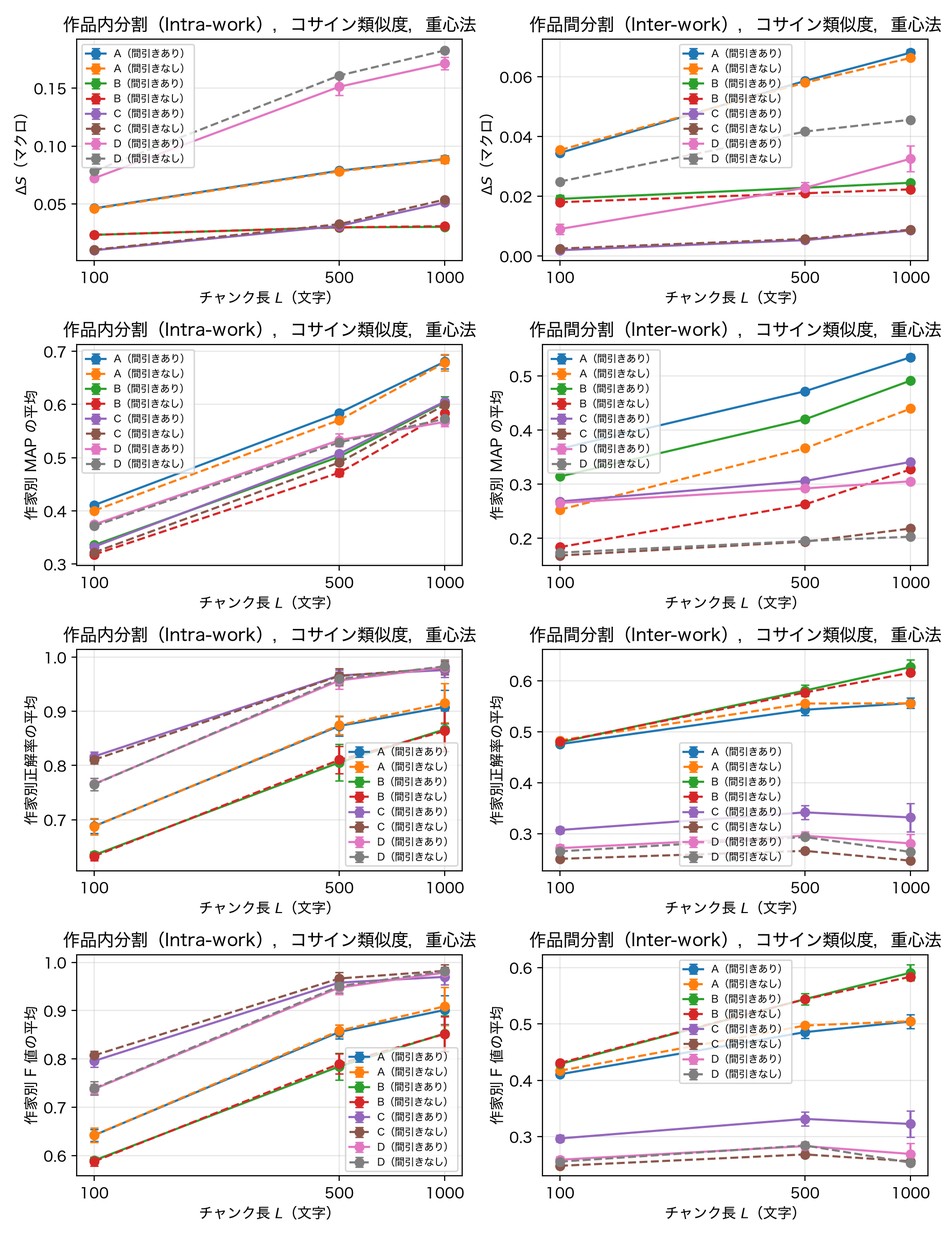
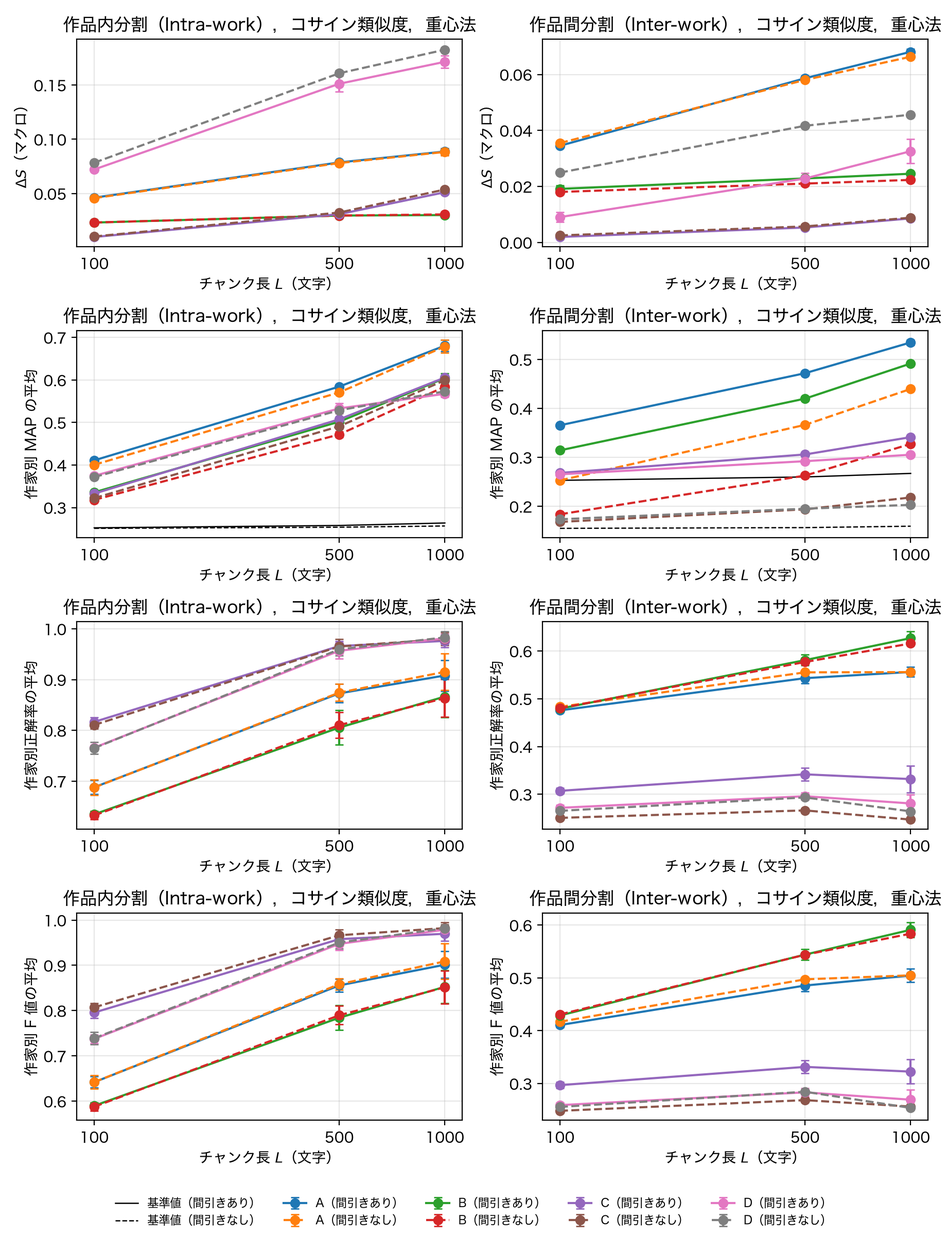
docs: 発表資料の監査で見つかった不足と不一致を修正

diff --git a/scripts/plot_results.py b/scripts/plot_results.py
@@ -429,8 +429,10 @@ def core_chunk_length(res: Results, cs: CoreSpec, h: dict[str, Any], Ls: list[in
             ax.set(xscale="log", xticks=Ls, xticklabels=[str(L) for L in Ls], xlabel=CHUNK_AXIS_LABEL, ylabel=METRIC_LABEL[col], title=f"{SPLIT_LABEL[split]}，間引き{BAL_LABEL[bal]}，{clf_label(clf)}")
             ax.minorticks_off()
             ax.grid(alpha=0.3)
-            ax.legend(fontsize=7)
-    fig.tight_layout()
+    # 凡例は線と重ならないよう図の下に 1 つだけ置く（基準値の線を含む作家別正解率の平均のパネルから採る）
+    handles, labels = axes[CORE_COLS.index("balanced_accuracy")][0].get_legend_handles_labels()
+    fig.legend(handles, labels, loc="lower center", ncol=len(labels), fontsize=8, frameon=False)
+    fig.tight_layout(rect=(0, 0.035, 1, 1))
     fig.savefig(fig_dir / "core_chunk_length.png", dpi=200)
     plt.close(fig)
     return [
@@ -629,6 +631,14 @@ def section_distributions(res: Results, h: dict[str, Any], features: list[str], 
 CURVE_METRICS = [(c, METRIC_LABEL[c]) for c in ("delta_s_macro", "map_macro", "balanced_accuracy", "macro_f1")]
 
 
+def chance_map(res: Results, features: list[str], L: int, split: str, bal: bool, sim: str, clf: str) -> float:
+    """作家別 MAP の平均のランダム基準（summary の map_macro_random）．Train の構成のみで決まり特徴量に依らないことを確認して返す．"""
+    vals = [float(r["map_macro_random"]) for f in features if (r := res.get(f, L, split, bal, sim, clf)) is not None]
+    assert vals, f"map_macro_random がない: L={L}, {split}, bal={bal}"
+    assert np.allclose(vals, vals[0], rtol=0, atol=1e-12), f"map_macro_random が特徴量で異なる: L={L}, {split}, bal={bal}, {vals}"
+    return vals[0]
+
+
 def section_chunk_length(res: Results, h: dict[str, Any], features: list[str], fig_dir: Path) -> list[str]:
     sim, clf = h["similarity"], h["classifier"]
     Ls = sorted(res.unique("chunk_chars"))
@@ -643,11 +653,17 @@ def section_chunk_length(res: Results, h: dict[str, Any], features: list[str], f
                         x, y, e = zip(*pts, strict=True)
                         err = [0.0 if (v is None or math.isnan(v)) else v for v in e]
                         ax.errorbar(x, y, yerr=err, marker="o", capsize=3, linestyle="-" if bal else "--", label=f"{f}（間引き{BAL_LABEL[bal]}）")
+            if mkey == "map_macro":
+                for bal in res.balances:
+                    x, y = map(list, zip(*[(L, chance_map(res, features, L, split, bal, sim, clf)) for L in Ls], strict=True))
+                    ax.plot(x, y, color="black", linewidth=0.9, linestyle="-" if bal else "--", label=f"基準値（間引き{BAL_LABEL[bal]}）")
             ax.set(xscale="log", xticks=Ls, xticklabels=[str(L) for L in Ls], xlabel=CHUNK_AXIS_LABEL, ylabel=mlabel, title=f"{SPLIT_LABEL[split]}，{SIM_LABEL[sim]}，{clf_label(clf)}")
             ax.minorticks_off()
             ax.grid(alpha=0.3)
-            ax.legend(fontsize=7)
-    fig.tight_layout()
+    # 凡例は線と重ならないよう図の下に 1 つだけ置く（基準値の線を含む作家別 MAP の平均のパネルから採る）
+    handles, labels = axes[[k for k, _ in CURVE_METRICS].index("map_macro")][0].get_legend_handles_labels()
+    fig.legend(handles, labels, loc="lower center", ncol=5, fontsize=8, frameon=False)
+    fig.tight_layout(rect=(0, 0.045, 1, 1))
     fig.savefig(fig_dir / "chunk_length_curves.png", dpi=200)
     plt.close(fig)
     found = [
@@ -667,7 +683,7 @@ def section_chunk_length(res: Results, h: dict[str, Any], features: list[str], f
     return [
         "## 3. チャンク長 L による類似度ギャップと判別精度の推移（特徴量内の比較）",
         "",
-        f"条件：`{sim}`，`{clf}`．実線は間引きあり，破線は間引きなし，誤差棒は標本標準偏差．$\\Delta S_{{\\text{{macro}}}}$ は同じ特徴量のチャンク長別の比較に用いる",
+        f"条件：`{sim}`，`{clf}`．実線は間引きあり，破線は間引きなし，誤差棒は標本標準偏差．作家別 MAP の平均のパネルの黒の細線（印なし）は基準値（`map_macro_random`，間引きの有無で異なる）．$\\Delta S_{{\\text{{macro}}}}$ は同じ特徴量のチャンク長別の比較に用いる",
         "",
         "![chunk length](figures/chunk_length_curves.png)",
         "",

diff --git a/presentation/presentation_storyline.md b/presentation/presentation_storyline.md
@@ -52,7 +52,7 @@
   - 作家別正解率は第 5 回 p.28 の再現率に第 6 回 p.44 の正解率を作家ごとに当てはめたもの，F 値は第 5 回 p.28-29，作家別の値の単純平均は独自設計，MRR は第 5 回 p.31．基準値は作家別正解率の平均 0.25，作家別 F 値の平均 0.233（ $L = 500$ ），MRR 0.521．
   - Inter-work（LOWO 9 fold）では全 fold の予測を合算した Pooled 混同行列から作家別の値を算出．
   - 正解率（全 Test チャンクでの集計）は漱石の正誤に支配されるため載せない．
-  - 同点（最大スコアを複数作家が共有）は誤判別として扱い，混同行列の「同点」列と同点件数を併記（008）．全条件で同点 0 件．
+  - 同点（最大スコアを複数作家が共有）は誤判別として扱い，混同行列の「同点」列と同点件数を併記（008）．本採用の A～D の全条件で同点 0 件．アブレーションの一部の $k$-NN（ `A[blocks=symbol]` の $L = 500$ ，B の `words` の付属語・内容語の $L = 100$ ）では条件ごとに 0.2～4.0 件（5 シードの平均，間引きなしの Inter-work は 1 回の値， `summary.csv` の `n_ties` ）．
 - **感度推移データ**：チャンク文字数 $L \in \{100, 500, 1000\}$ ，推論方式（重心法 vs 作家別上位 $k$ 平均， $k \in \{1, 3, 5, 10, 20\}$ ），B の付属語 vs 内容語対照，各担当のアブレーション．
 
 ---
@@ -65,13 +65,24 @@
 
 | スライド番号・タイトル | 提示するデータ・図表・数式 | 主張するポイント（何を言うか） |
 | :--- | :--- | :--- |
-| **Slide 1: タイトル・問題意識（類似度で著者を判別できるか）** | ・研究タイトル，班員一覧と役割分担表<br>・概念図：未知の文章 $q$ と 4 作家の文章群との「類似度」を測り，最も似ている作家を推定するイメージ図 | ・「文章の類似度を測ることで，書き手（著者）を判別できるか？」という本研究のテーマを提示．<br>・成功の条件は **「同じ著者の文章同士なら類似度が高く，違う著者同士なら低くなる『類似度の測り方』を見つけること」**． |
-| **Slide 1a: 導入（第 5 回 p.11 で捨てた語で著者を見分けられるか）** | ・第 5 回 p.14：『坊っちゃん』の頻度上位（て・だ・た・は・を・の・に・が・と…）<br>・第 5 回 p.15：助詞・助動詞などを除いた上位（する・おれ・云う…）<br>・第 5 回 p.16：tf・idf 順の上位（山嵐・シャツ・おれ・云う・古賀…）<br>・補足：p.15 の上位語「云う」は，C では語彙素 `言う` に統一（『坊っちゃん』の「云」始まりの動詞 462 件中 458 件が `言う` ，残りは「云い捨てる」等の複合動詞．出典： `scripts/verify_word_tfidf.py` ）<br>・**本コーパスでの再現（ `verify_qa_points` ，作品別の付属語の出現回数上位，文単位の解析）**：『坊っちゃん』て 2245，の 2202，に 1752，と 1742，は 1731，が 1708，た 1657，を 1655，だ 1154，で 1075．『こころ』の 5984，た 5435，に 4545，は 4177，て 3857，…，です 1132，まし 1032．『三四郎』の 4689，て 4211，た 4096，に 3786，は 3469．全 9 作品の上位 12 語は `qa_defense_matrix.md` の Q14 | ・第 5 回 p.11 は助詞・助動詞を不要語として索引語から捨て，p.14-16 では捨てた後に題材語（山嵐・シャツ）が浮かび上がることを示した．本コーパスでも『坊っちゃん』の頻度上位は講義と同じ付属語．<br>・**問いの設定**：「講義はこの上位語を不要語（第 5 回 p.11）として捨てた．本研究はその捨てられた側で著者を見分ける」．内容（何を書いたか）は作品ごとに変わるが，付属語の使い方（どう書いたか）は作品が変わっても残るはず，という仮説を提示．上位語の顔ぶれは共通でも順位と頻度は作品で異なる（『こころ』は「です」「まし」が上位）． |
-| **Slide 2: 対象データの選定（青空文庫 4 作家・9 作品）** | ・**［表 1］配布コーパス全 30 作品の作家別作品数と，抽出した 4 作家・9 作品（漱石 3，太宰 2，寅彦 2，花袋 2）の文字数・文数・チャンク数一覧表**（000 実測， `verify_qa_points` の Q1：2 作品以上の作家は 25 名中 4 名のみ．9 作品の値は下記の「表 1」，作品別のチャンク数は `full_006` と照合済み） | ・同じ著者の「別の作品」でも類似度が高くなるかを見るため，複数作品がある 4 作家（計 9 作品）を選定．<br>・文語体や翻訳文学を除き，明治～昭和初期の口語体作家に揃えることで「時代の違い」ではなく「著者の違い」を測るデータにしたと説明． |
-| **Slide 3: 実験設定（同一作品内 vs 作品間）と文境界チャンク分割** | ・**［図 1］Intra-work（同じ作品の別パート，5 シード）と Inter-work（同じ著者の別作品，LOWO 9 fold）の比較図**<br>・文境界保持チャンク分割（ $L \in \{100, 500, 1000\}$ 文字）の仕組み（文の定義は第 2 回 p.8）．実測チャンク長は $125.8 \pm 33.1$ 字（ $L = 100$ ）， $527.3 \pm 36.7$ 字（500）， $1029.1 \pm 42.9$ 字（1000）， `verify_qa_points` <br>・Train チャンク数の作家間均等化（間引き，独自設計，013～015）：作家ごとに最少の作家のチャンク数にそろえる（5 シード）．間引きなしを併記 | ・同じ小説の別ページ（Intra-work）で類似度が高くなるのは当然（登場人物が同じ）．**未知の別作品（Inter-work）でも同じ著者なら類似度が高くなるか**をメインの検証課題に設定．同じ作品のチャンクは題材・登場人物・底本の表記を共有して互いに独立でないため，同じ作品のチャンクが Train と Test に分かれると作品の一致で識別できてしまい精度が過大に出る（トピック漏洩）．これを避ける設計．<br>・文末の表現を壊さないよう，文単位で目標文字数 $L$ まで束ねるチャンク分割．<br>・漱石の作品は長く，間引かないと Train の約半数が漱石になるため間引く． |
+| **Slide 1: タイトル・問題意識（類似度で著者を判別できるか）** | ・研究タイトル，班員一覧と役割分担表（スライド作成時に作成（研究者・スライド作成担当））<br>・概念図：未知の文章 $q$ と 4 作家の文章群との「類似度」を測り，最も似ている作家を推定するイメージ図（スライド作成時に作成（研究者・スライド作成担当）） | ・「文章の類似度を測ることで，書き手（著者）を判別できるか？」という本研究のテーマを提示．<br>・成功の条件は **「同じ著者の文章同士なら類似度が高く，違う著者同士なら低くなる『類似度の測り方』を見つけること」**． |
+| **Slide 1a: 導入（第 5 回 p.11 で捨てた語で著者を見分けられるか）** | ・第 5 回 p.14：『坊っちゃん』の頻度上位（て・だ・た・は・を・の・に・が・と…）<br>・第 5 回 p.15：助詞・助動詞などを除いた上位（する・おれ・云う…）<br>・第 5 回 p.16：tf・idf 順の上位（山嵐・シャツ・おれ・云う・古賀…）<br>・補足：p.15 の上位語「云う」は，C では語彙素 `言う` に統一（『坊っちゃん』の「云」始まりの動詞 462 件中 458 件が `言う` ，残りは「云い捨てる」等の複合動詞．出典： `scripts/verify_word_tfidf.py` ）<br>・**本コーパスでの確認（ `verify_qa_points` ，作品別の付属語の出現回数上位，文単位の解析）**：『坊っちゃん』て 2245，の 2202，に 1752，と 1742，は 1731，が 1708，た 1657，を 1655，だ 1154，で 1075．『こころ』の 5984，た 5435，に 4545，は 4177，て 3857，…，です 1132，まし 1032．『三四郎』の 4689，て 4211，た 4096，に 3786，は 3469．全 9 作品の上位 12 語は `qa_defense_matrix.md` の Q14 | ・第 5 回 p.11 は助詞・助動詞を不要語として索引語から捨て，p.14-16 では捨てた後に題材語（山嵐・シャツ）が浮かび上がることを示した．本コーパスの『坊っちゃん』でも上位の付属語の顔ぶれは講義と一致，順位は異なる（例：講義で 2 位の「だ」が本コーパスの付属語では 9 位）．<br>・**問いの設定**：「講義はこの上位語を不要語（第 5 回 p.11）として捨てた．本研究はその捨てられた側で著者を見分ける」．内容（何を書いたか）は作品ごとに変わるが，付属語の使い方（どう書いたか）は作品が変わっても残るはず，という仮説を提示．上位語の顔ぶれは共通でも順位と頻度は作品で異なる（『こころ』は「です」「まし」が上位）． |
+| **Slide 2: 対象データの選定（青空文庫 4 作家・9 作品）** | ・**［表 1］配布コーパス全 30 作品の作家別作品数と，抽出した 4 作家・9 作品（漱石 3，太宰 2，寅彦 2，花袋 2）の文字数・文数・チャンク数一覧表**（000 実測， `verify_qa_points` の Q1：2 作品以上の作家は 25 名中 4 名のみ．全 30 作品の作家別作品数と 9 作品の値は下記の「表 1」，作品別のチャンク数は `full_006` と照合済み） | ・同じ著者の「別の作品」でも類似度が高くなるかを見るため，複数作品がある 4 作家（計 9 作品）を選定．<br>・文語体や翻訳文学を除き，明治～昭和初期の口語体作家に揃えることで「時代の違い」ではなく「著者の違い」を測るデータにしたと説明． |
+| **Slide 3: 実験設定（同一作品内 vs 作品間）と文境界チャンク分割** | ・**［図 1］Intra-work（同じ作品の別パート，5 シード）と Inter-work（同じ著者の別作品，LOWO 9 fold）の比較図**（スライド作成時に作成（研究者・スライド作成担当））<br>・文境界保持チャンク分割（ $L \in \{100, 500, 1000\}$ 文字）の仕組み（文の定義は第 2 回 p.8）．実測チャンク長は $125.8 \pm 33.1$ 字（ $L = 100$ ）， $527.3 \pm 36.7$ 字（500）， $1029.1 \pm 42.9$ 字（1000）， `verify_qa_points` <br>・Train チャンク数の作家間均等化（間引き，独自設計，013～015）：作家ごとに最少の作家のチャンク数にそろえる（5 シード）．間引きなしを併記 | ・同じ小説の別ページ（Intra-work）で類似度が高くなるのは当然（登場人物が同じ）．**未知の別作品（Inter-work）でも同じ著者なら類似度が高くなるか**をメインの検証課題に設定．同じ作品のチャンクは題材・登場人物・底本の表記を共有して互いに独立でないため，同じ作品のチャンクが Train と Test に分かれると作品の一致で識別できてしまい精度が過大に出る（トピック漏洩）．これを避ける設計．<br>・文末の表現を壊さないよう，文単位で目標文字数 $L$ まで束ねるチャンク分割．<br>・漱石の作品は長く，間引かないと Train の約半数が漱石になるため間引く． |
 | **Slide 4: 4 つの類似度観点と類似度算出式・判別アルゴリズム** | ・4 つの特徴量観点（A：文字 Bi-gram・記号，B：品詞 2-gram・付属語，C：内容語 TF-IDF，D：LSI 潜在意味）の対比表<br>・類似度式はコサイン係数のみ： $\cos(\vec{d}_i, \vec{q}) = \frac{\vec{d}_i \cdot \vec{q}}{\|\vec{d}_i\| \|\vec{q}\|}$ （第 5 回 p.26，第 3 回 p.25）<br>・判別法：重心法（第 2 回 p.48 の代表文書による分類，代表条件），作家別上位 $k$ 平均（独自設計． $k = 1$ は第 5 回 p.25 の類似度順位の最上位） | ・`scikit-learn` 等を使わず， `numpy` と `fugashi-plus[unidic-lite]` のみで特徴抽出・類似度計算・推論をフルスクラッチ実装．<br>・各作家との類似度から著者を決める際，「作家の全チャンクの平均ベクトル（代表文書）と比べる（重心法）」か「特に似ている上位 $k$ 個のチャンクの平均と比べる（作家別上位 $k$ 平均）」かの 2 方式を比較．図表は全特徴量で重心法にそろえる． |
 
-#### 表 1（Slide 2）：対象 4 作家・9 作品の文字数・文数・チャンク数（ `verify_qa_points` の Q1）
+#### 表 1（Slide 2）：全 30 作品の作家別作品数と，対象 4 作家・9 作品の文字数・文数・チャンク数（ `verify_qa_points` の Q1）
+
+配布コーパス全 30 作品・25 作家の作家別作品数（ `verify_qa_points` の Q1 の「コーパス全作品の作家別作品数」）：
+
+| 作品数 | 作家数 | 作家（作品） |
+| ---: | ---: | :--- |
+| 3 | 1 | 夏目漱石（坊っちゃん・こころ・三四郎） |
+| 2 | 3 | 太宰治（惜別・斜陽），寺田寅彦（映画芸術・柿の種），田山花袋（蒲団・田舎教師） |
+| 1 | 21 | 牧野富太郎，吉川英治，岡本かの子，島崎藤村，ディケンズ チャールズ，福沢諭吉，宮沢賢治，幸田露伴，スウィフト ジョナサン，ツルゲーネフ，スティーブンソン ロバート・ルイス，小林多喜二，堀辰雄，ルブラン モーリス，小出楢重，柳田國男，岡本綺堂，芥川龍之介，三木清，織田作之助，西田幾多郎 |
+| 計 30 作品 | 25 | |
+
+対象 4 作家・9 作品の値：
 
 再現コマンド `uv run python scripts/verify_qa_points.py --baseline-run full_006` （Q1 の「対象 9 作品」）．作品別のチャンク数は `full_006` の Inter-work の各 fold（Test が 1 作品）の Test チャンク数と一致（スクリプト内で照合，不一致なら停止）．
 
@@ -107,9 +118,9 @@
 
 | スライド番号・タイトル | 提示するデータ・図表・数式 | 主張するポイント（何を言うか） |
 | :--- | :--- | :--- |
-| **Slide 5-6: 【担当 A】表層・文字づかいと句読点の類似度** | ・特徴定義：文字 Bi-gram 上位 1000（第 2 回 p.25 の N-gram を文字に適用）と記号 3 次元（読点・文末記号・開き括弧類）．すべて「出現回数 ÷ 総文字数」の相対頻度（第 5 回 p.12，文書を文字の列とみなす第 5 回 p.10）．平均文長は文末記号率 $= 1 / \text{平均文長}$ として保持（文の定義は第 2 回 p.8）<br>・**［表 2］正規化なしを選んだ根拠：3 構成の二乗ノルム割合 $\frac{\|\vec{x}_{\text{block}}\|^2}{\|\vec{x}\|^2}$ （010 実測，全チャンクの平均）**<br>　既定仕様：Bi-gram / 記号 = 0.72 / 0.28（ $L = 100$ ），0.57 / 0.43（500），0.52 / 0.48（1000）<br>　旧案（＋字種構成比）：字種が 0.98～0.99<br>　旧案＋Min-Max：Bi-gram が 0.88～0.96<br>　再現コマンド： `uv run python scripts/investigate_a_scale.py` <br>・**［グラフ A］アブレーション（ `full_006` ， $L = 500$ ，作家別 MAP の平均 / 作家別正解率の平均）**<br>　既定：Intra-work 0.584 ± 0.004 / 0.873 ± 0.018，Inter-work 0.472 ± 0.003 / 0.543 ± 0.011<br>　`scaling="minmax"` ：Intra-work 0.588 ± 0.003 / 0.973 ± 0.009，Inter-work 0.400 ± 0.005 / 0.514 ± 0.013<br>　`blocks="bigram"` ：Intra-work 0.581 ± 0.006 / 0.883 ± 0.021，Inter-work 0.422 ± 0.004 / 0.525 ± 0.020<br>　`blocks="symbol"` ：Intra-work 0.379 ± 0.006 / 0.473 ± 0.031，Inter-work 0.371 ± 0.003 / 0.455 ± 0.010<br>　基準値：作家別 MAP の平均 0.258（Intra-work），0.260（Inter-work），作家別正解率の平均 0.25<br>・**作品別の字種構成比（ `char_type_ratios` ， `verify_qa_points` ，漢字 / ひらがな / カタカナ）**：『坊っちゃん』0.283 / 0.634 / 0.012，『こころ』0.277 / 0.658 / 0.001，『三四郎』0.264 / 0.643 / 0.009，『惜別』0.297 / 0.604 / 0.007，『斜陽』0.221 / 0.655 / 0.021，『映画芸術』0.305 / 0.562 / 0.070，『柿の種』0.293 / 0.614 / 0.029，『蒲団』0.348 / 0.562 / 0.008，『田舎教師』0.289 / 0.626 / 0.012<br>・副詞の表記差（ `verify_qa_points` ）：「大分 / だいぶ」は『坊っちゃん』20 / 0，『こころ』15 / 0，『三四郎』0 / 40 | ・「どんな文字の並びを好み，どれくらい句読点を打つか」という表層リズムで類似度を測るアプローチ．<br>・**設計判断の主張**：正規化は中立な前処理ではなく，ブロックの重み付けを暗黙に決める操作．字種を入れると字種が約 99% を占め，Min-Max をかけると今度は Bi-gram が 88～96% を占める．相対頻度のみの既定仕様だけが単一ブロックに支配されないため，実測に基づいて正規化なしを選んだ（Min-Max は独自設計のアブレーションのみ，根拠は 010 の実測）．<br>・**アブレーションの結果**：Min-Max は同じ作品内（Intra-work）では最高（0.973）だが未知作品（Inter-work）では既定より低い．記号 3 次元だけでも作家別正解率の平均 0.455（基準値 0.25）で，Intra-work → Inter-work の MAP の低下は −0.008 とほぼない．句読点・文長は作品が変わっても残る手がかり．Bi-gram と記号の結合が Inter-work の MAP で最高．<br>・**考察（仮説）**：同一作家でも作品ごとの字種構成比の差は大きい（漢字率：太宰 0.297 / 0.221，花袋 0.348 / 0.289）．A の Inter-work の作家別 MAP の平均は全特徴量で最高（0.472）だが，A が底本の表記方針や作品ごとの字種を拾っている可能性と，文字 Bi-gram が付属語を含む文字列（「た。」等）を拾っている可能性がある（いずれも仮説，今回の実験では分離していない）．文字表層に依存しない担当 B への伏線． |
+| **Slide 5-6: 【担当 A】表層・文字づかいと句読点の類似度** | ・特徴定義：文字 Bi-gram 上位 1000（第 2 回 p.25 の N-gram を文字に適用）と記号 3 次元（読点・文末記号・開き括弧類）．すべて「出現回数 ÷ 総文字数」の相対頻度（第 5 回 p.12，文書を文字の列とみなす第 5 回 p.10）．平均文長は文末記号率 $= 1 / \text{平均文長}$ として保持（文の定義は第 2 回 p.8）<br>・**［表 2］正規化なしを選んだ根拠：3 構成の二乗ノルム割合 $\frac{\|\vec{x}_{\text{block}}\|^2}{\|\vec{x}\|^2}$ （010 実測，全チャンクの平均）**<br>　既定仕様：Bi-gram / 記号 = 0.72 / 0.28（ $L = 100$ ），0.57 / 0.43（500），0.52 / 0.48（1000）<br>　旧案（＋字種構成比）：字種が 0.98～0.99<br>　旧案＋Min-Max：Bi-gram が 0.88～0.96<br>　再現コマンド： `uv run python scripts/investigate_a_scale.py` <br>・**［グラフ A］アブレーション（ `full_006` ， $L = 500$ ，作家別 MAP の平均 / 作家別正解率の平均）**（値は本資料の表，図はスライド作成時に作成）<br>　既定：Intra-work 0.584 ± 0.004 / 0.873 ± 0.018，Inter-work 0.472 ± 0.003 / 0.543 ± 0.011<br>　`scaling="minmax"` ：Intra-work 0.588 ± 0.003 / 0.973 ± 0.009，Inter-work 0.400 ± 0.005 / 0.514 ± 0.013<br>　`blocks="bigram"` ：Intra-work 0.581 ± 0.006 / 0.883 ± 0.021，Inter-work 0.422 ± 0.004 / 0.525 ± 0.020<br>　`blocks="symbol"` ：Intra-work 0.379 ± 0.006 / 0.473 ± 0.031，Inter-work 0.371 ± 0.003 / 0.455 ± 0.010<br>　基準値：作家別 MAP の平均 0.258（Intra-work），0.260（Inter-work），作家別正解率の平均 0.25<br>・**作品別の字種構成比（ `char_type_ratios` ， `verify_qa_points` ，漢字 / ひらがな / カタカナ）**：『坊っちゃん』0.283 / 0.634 / 0.012，『こころ』0.277 / 0.658 / 0.001，『三四郎』0.264 / 0.643 / 0.009，『惜別』0.297 / 0.604 / 0.007，『斜陽』0.221 / 0.655 / 0.021，『映画芸術』0.305 / 0.562 / 0.070，『柿の種』0.292 / 0.613 / 0.029，『蒲団』0.348 / 0.562 / 0.008，『田舎教師』0.289 / 0.626 / 0.011<br>・副詞の表記差（ `verify_qa_points` ）：「大分 / だいぶ」は『坊っちゃん』20 / 0，『こころ』15 / 0，『三四郎』0 / 40 | ・「どんな文字の並びを好み，どれくらい句読点を打つか」という表層リズムで類似度を測るアプローチ．<br>・**設計判断の主張**：正規化は中立な前処理ではなく，ブロックの重み付けを暗黙に決める操作．字種を入れると字種が約 99% を占め，Min-Max をかけると今度は Bi-gram が 88～96% を占める．相対頻度のみの既定仕様だけが単一ブロックに支配されないため，実測に基づいて正規化なしを選んだ（Min-Max は独自設計のアブレーションのみ，根拠は 010 の実測）．<br>・**アブレーションの結果**：Min-Max は同じ作品内（Intra-work）では最高（0.973）だが未知作品（Inter-work）では既定より低い．記号 3 次元だけでも作家別正解率の平均 0.455（基準値 0.25）で，Intra-work → Inter-work の MAP の低下は −0.007 とほぼない．句読点・文長は作品が変わっても残る手がかり．Bi-gram と記号の結合が Inter-work の MAP で最高．<br>・**考察（仮説）**：同一作家でも作品ごとの字種構成比の差は大きい（漢字率：太宰 0.297 / 0.221，花袋 0.348 / 0.289）．A の Inter-work の作家別 MAP の平均は全特徴量で最高（0.472）だが，A が底本の表記方針や作品ごとの字種を拾っている可能性と，文字 Bi-gram が付属語を含む文字列（「た。」等）を拾っている可能性がある（いずれも仮説，今回の実験では分離していない）．文字表層に依存しない担当 B への伏線． |
 | **Slide 7-8: 【担当 B・発表の中心】付属語と品詞の並びの類似度** | ・特徴定義：品詞 2-gram（ `pos1` と `pos2` の組）の相対頻度（第 2 回 p.30 の $C(t_{i-1}, t_i)$ ）と付属語（助詞・助動詞，第 2 回 p.11）の相対頻度（第 5 回 p.12）．表層形を既定（第 2 回 p.16 の形態素解析の出力）<br>・**［主結果表 3］付属語（ `target_pos=["助詞", "助動詞"]` ）と内容語対照（ `target_pos=["名詞", "動詞", "形容詞"]` ）の統制比較（ `full_006` ，重心法，下記の「主結果表 3」）**．主は語ブロック単独（ `blocks="words"` ），結合版（ `all` ）と品詞 2-gram 単独（ `pos_bigram` ）を併記<br>・**［図 B］ `presentation/figures/core_chunk_length.png` **（主結果のチャンク長別推移，青：付属語，赤：内容語，実線 `words` ，点線 `all` ）<br>・**［表 B-2］語彙選択に対する感度（ `sensitivity_029_L*` ，下記の「語彙選択に対する感度」）**<br>・作品ごとの一貫性（ `full_006` ）：作家別 MAP の平均で付属語が上回るのは各 $L$ で 9 作品中 7 作品．例外は寺田寅彦の 2 作品（『映画芸術』−0.062 / −0.150 / −0.213，『柿の種』−0.010 / −0.035 / −0.068， $L = 100 / 500 / 1000$ ）<br>・アブレーション（ `full_006` ， $L = 500$ ，Inter-work，作家別 MAP の平均 / 作家別正解率の平均）：既定（付属語・表層形・ `all` ）0.420 ± 0.004 / 0.581 ± 0.011，語彙素（ `token_key="lemma"` ）0.415 ± 0.004 / 0.573 ± 0.005，接続詞・連体詞・感動詞を加えた拡張 0.418 ± 0.004 / 0.579 ± 0.011<br>・**［表 B-3］作家ごとに偏りのある付属語（ `function_word_profiles` ，記述統計，下記の「作家ごとに偏りのある付属語」）**：漱石「ちゃ」「なくっ」「てる」「へ」，太宰「だっ」「でしょう」「ます」，寺田「れる」「る」「べき」，花袋「やら」「ぬ」「たり」が他の 3 作家より多い（比 2.5～7.5）．品詞遷移の個別の例は集計していない（作品別の付属語頻度上位は Slide 1a） | ・**中心となる主張**：Slide 1a の問いへの直接回答．同じ表現（表層形の相対頻度）のまま語の種類だけを付属語と内容語で入れ替えた統制比較により，「語の種類」の効果だけを取り出す．<br>・**結果 1（作家別正解率の平均）**：未知作品（Inter-work）では付属語が全 $L$ ・間引きの有無によらず +0.09～+0.22 上回る．同じ作品内（Intra-work）では内容語が上（−0.20 前後）で，内容語の強さはトピック漏洩によるものと整合．<br>・**結果 2（作家別 MAP の平均）**：Inter-work（間引きあり）で付属語が上回るが差は小さい（+0.014～+0.049）．間引きなしでは +0.004～+0.008．内容語の語彙選択しだいで差は動き，Train で 1 作家にしか出ない語を内容語から除くと +0.006（ $L = 500$ ），+0.003（ $L = 1000$ ）とほぼ消える．同じ操作で作家別正解率の平均の差も +0.186 → +0.085（ $L = 500$ ）に縮むが，付属語が上のまま．<br>・**寺田寅彦の例外**：2 作品とも随筆で作品間の題材が近く，内容語も作品をまたいで共有される可能性（仮説）．9 作品のため作品ごとの差の検定はしない．<br>・**`all` で差が小さい理由**：品詞 2-gram ブロックが二乗ノルムの 65～95% を占め（付属語 0.65，内容語対照 0.87～0.95，025），語ブロックの差が薄まるため．品詞 2-gram 単独（0.406）でも付属語の結合版（0.420）に近く，B の主な寄与源は品詞 2-gram（解釈）．<br>・表層形と語彙素の差は小さく（MAP −0.005），活用形が文末の癖を表すという期待は強くは支持されない．<br>・**付属語の何が違うか（表 B-3，記述統計）**：講義が捨てた付属語の中にも，作家ごとに使用頻度が数倍異なり，作品をまたいで同じ側に偏る語がある（例：太宰の敬体「ます」「でしょう」，寺田の「れる」「べき」）．評価には使わない例示で，識別に効いた次元の特定ではない． |
-| **Slide 9-10: 【担当 C】使われている内容語（TF-IDF）の類似度** | ・TF-IDF の数式（講義定義のまま）： $\text{tf}(t, d)$ （第 5 回 p.12，総形態素数で正規化）， $\text{idf}(t) = \log \frac{N}{\text{df}(t)}$ （第 5 回 p.13），重み $w_{dt} = \text{tf}(t, d) \cdot \text{idf}(t)$ ．索引語は名詞・動詞・形容詞（第 5 回 p.11）<br>・ $\text{df}(t) = N$ の語は $\text{idf} = 0$ で重みが消えるが，第 5 回 p.11 の「どの文書にも均質に現れる語」は不要語，という定義と整合．実データでは $L = 100, 500$ で 0 語， $L = 1000$ で 1 語（ `為る` ）のみ（全 10 分割の Train，出典： `scripts/verify_word_tfidf.py` ）<br>・ `lemma` （語彙素）による内容語の表記統一：「云った / 言った」→ `言う` ，「解らない / 分からない」→ `分かる` ，「事 / こと」→ `事` で行ベクトルが一致（UniDic 固有の仕様）<br>・**［表 C-1］作品別の表記揺れ（底本の表記方針による交絡の例，文単位の解析，出典： `scripts/verify_word_tfidf.py` ）**：同じ漱石でも『坊っちゃん』は「云」系 462 /「言」系 15，『三四郎』は「云」系 0 /「言」系 633．「解」系（ `分かる` に統一）は『こころ』71 件，『蒲団』21 件で，『三四郎』は仮名書き「わかる」系 126 件のみ．名詞「事 / こと」は『坊っちゃん』292 / 20，『三四郎』161 / 308，『田舎教師』3 / 565．いずれも C では同一次元に集計<br>・**［グラフ C］Intra-work と Inter-work の比較（ `full_006` ，重心法，間引きあり）**．<br>　Inter-work（LOWO 9 fold の Pooled）：<br>　 $L = 100$ ： $\Delta S_{\text{macro}} = 0.0020 \pm 0.0001$ ，作家別 MAP の平均 0.268 ± 0.001（基準値 0.253），作家別正解率の平均 0.307 ± 0.006，作家別 F 値の平均 0.297 ± 0.006<br>　 $L = 500$ ： $\mu_{\text{same}} = 0.0410 \pm 0.0002$ ， $\mu_{\text{diff}} = 0.0357 \pm 0.0001$ ， $\Delta S_{\text{macro}} = 0.0053 \pm 0.0001$ ，作家別 MAP の平均 0.306 ± 0.001（基準値 0.260），作家別正解率の平均 0.342 ± 0.014，作家別 F 値の平均 0.332 ± 0.012，MRR 0.613 ± 0.012<br>　 $L = 1000$ ： $\Delta S_{\text{macro}} = 0.0086 \pm 0.0002$ ，作家別 MAP の平均 0.341 ± 0.003（基準値 0.267），作家別正解率の平均 0.332 ± 0.028，作家別 F 値の平均 0.323 ± 0.023<br>　Intra-work（5 シード）：<br>　 $L = 100$ ： $\Delta S_{\text{macro}} = 0.0100 \pm 0.0001$ ，作家別 MAP の平均 0.333 ± 0.001，作家別正解率の平均 0.817 ± 0.009，作家別 F 値の平均 0.796 ± 0.013<br>　 $L = 500$ ： $\mu_{\text{same}} = 0.0639 \pm 0.0004$ ， $\mu_{\text{diff}} = 0.0329 \pm 0.0003$ ， $\Delta S_{\text{macro}} = 0.0310 \pm 0.0006$ ，作家別 MAP の平均 0.507 ± 0.005，作家別正解率の平均 0.966 ± 0.010，作家別 F 値の平均 0.958 ± 0.013，MRR 0.978 ± 0.008<br>　 $L = 1000$ ： $\Delta S_{\text{macro}} = 0.0512 \pm 0.0012$ ，作家別 MAP の平均 0.606 ± 0.005，作家別正解率の平均 0.976 ± 0.013，作家別 F 値の平均 0.970 ± 0.016<br>　（ $\mu$ はマクロ版．同点・ゼロベクトルの照会は全条件で 0 件．全 $k$ の値は `outputs/full_006/summary.csv` ）<br>・漱石への予測の集中（ `exclusion_summary_ABCD` ， $L = 500$ ，重心法）：漱石以外のチャンク中の漱石予測割合は間引きあり 0.351 ± 0.053，間引きなし 0.583 | ・講義の情報検索の枠組み（第 5 回 p.25 のベクトル空間モデル）をそのまま著者識別に適用したベースライン．<br>・**表記統一の整理**：底本の表記差は内容語にも及ぶ（表 C-1）が，C は語彙素で吸収するため，同一著者の別作品で「云う」と「言う」が別次元になる交絡は生じない．副詞「大分 / だいぶ」「矢張り / やはり」は語彙素では統一されるものの C の索引語（名詞・動詞・形容詞）の対象外で，その表記差が効くのは文字表層を見る A のみ．<br>・**C の結果（ `full_006` ）**：Intra-work では $L = 500$ で作家別正解率の平均 0.966 と全特徴量で最高だが，Inter-work では 0.342（基準値 0.25）に低下し， $\Delta S_{\text{macro}}$ も 0.0310 から 0.0053 に縮小．作家別 MAP の平均の低下（−0.202）は A・B より大きい．同じ作品内の語彙（登場人物名・題材）の一致は，同じ著者の別作品には持ち越されない．<br>・間引きなしでは漱石以外のチャンクの 58% が漱石と予測され，間引きで 35% に下がる．<br>・C と B の差は語の種類に加えて重み付けとキーの違いを含むため，語の種類の効果は Slide 7-8 の統制比較で示す． |
+| **Slide 9-10: 【担当 C】使われている内容語（TF-IDF）の類似度** | ・TF-IDF の数式（講義定義のまま）： $\text{tf}(t, d)$ （第 5 回 p.12，総形態素数で正規化）， $\text{idf}(t) = \log \frac{N}{\text{df}(t)}$ （第 5 回 p.13），重み $w_{dt} = \text{tf}(t, d) \cdot \text{idf}(t)$ ．索引語は名詞・動詞・形容詞（第 5 回 p.11）<br>・ $\text{df}(t) = N$ の語は $\text{idf} = 0$ で重みが消えるが，第 5 回 p.11 の「どの文書にも均質に現れる語」は不要語，という定義と整合．実データでは $L = 100, 500$ で 0 語， $L = 1000$ で 1 語（ `為る` ）のみ（全 10 分割の間引きなしの Train で数えた値，出典： `scripts/verify_word_tfidf.py` ）<br>・ `lemma` （語彙素）による内容語の表記統一：「云った / 言った」→ `言う` ，「解らない / 分からない」→ `分かる` ，「事 / こと」→ `事` で行ベクトルが一致（UniDic 固有の仕様）<br>・**［表 C-1］作品別の表記揺れ（底本の表記方針による交絡の例，文単位の解析，出典： `scripts/verify_word_tfidf.py` ）**：同じ漱石でも『坊っちゃん』は「云」系 462 /「言」系 15，『三四郎』は「云」系 0 /「言」系 633．「解」系（ `分かる` に統一）は『こころ』71 件，『蒲団』21 件で，『三四郎』は仮名書き「わかる」系 126 件のみ．名詞「事 / こと」は『坊っちゃん』292 / 20，『三四郎』161 / 308，『田舎教師』3 / 565．いずれも C では同一次元に集計<br>・**［グラフ C］Intra-work と Inter-work の比較（ `full_006` ，重心法，間引きあり）**（値は本資料の表，図はスライド作成時に作成）．<br>　Inter-work（LOWO 9 fold の Pooled）：<br>　 $L = 100$ ： $\Delta S_{\text{macro}} = 0.0020 \pm 0.0001$ ，作家別 MAP の平均 0.268 ± 0.001（基準値 0.253），作家別正解率の平均 0.307 ± 0.006，作家別 F 値の平均 0.297 ± 0.006<br>　 $L = 500$ ： $\mu_{\text{same}} = 0.0410 \pm 0.0002$ ， $\mu_{\text{diff}} = 0.0357 \pm 0.0001$ ， $\Delta S_{\text{macro}} = 0.0053 \pm 0.0001$ ，作家別 MAP の平均 0.306 ± 0.001（基準値 0.260），作家別正解率の平均 0.342 ± 0.014，作家別 F 値の平均 0.332 ± 0.012，MRR 0.613 ± 0.012<br>　 $L = 1000$ ： $\Delta S_{\text{macro}} = 0.0086 \pm 0.0002$ ，作家別 MAP の平均 0.341 ± 0.003（基準値 0.267），作家別正解率の平均 0.332 ± 0.028，作家別 F 値の平均 0.323 ± 0.023<br>　Intra-work（5 シード）：<br>　 $L = 100$ ： $\Delta S_{\text{macro}} = 0.0100 \pm 0.0001$ ，作家別 MAP の平均 0.333 ± 0.001，作家別正解率の平均 0.817 ± 0.009，作家別 F 値の平均 0.796 ± 0.013<br>　 $L = 500$ ： $\mu_{\text{same}} = 0.0639 \pm 0.0004$ ， $\mu_{\text{diff}} = 0.0329 \pm 0.0003$ ， $\Delta S_{\text{macro}} = 0.0310 \pm 0.0006$ ，作家別 MAP の平均 0.507 ± 0.005，作家別正解率の平均 0.966 ± 0.010，作家別 F 値の平均 0.958 ± 0.013，MRR 0.978 ± 0.008<br>　 $L = 1000$ ： $\Delta S_{\text{macro}} = 0.0512 \pm 0.0012$ ，作家別 MAP の平均 0.606 ± 0.005，作家別正解率の平均 0.976 ± 0.013，作家別 F 値の平均 0.970 ± 0.016<br>　（ $\mu$ はマクロ版．同点・ゼロベクトルの照会は全条件で 0 件．全 $k$ の値は `outputs/full_006/summary.csv` ）<br>・漱石への予測の集中（ `exclusion_summary_ABCD` ， $L = 500$ ，重心法）：漱石以外のチャンク中の漱石予測割合は間引きあり 0.351 ± 0.053，間引きなし 0.583 | ・講義の情報検索の枠組み（第 5 回 p.25 のベクトル空間モデル）をそのまま著者識別に適用したベースライン．<br>・**表記統一の整理**：底本の表記差は内容語にも及ぶ（表 C-1）が，C は語彙素で吸収するため，同一著者の別作品で「云う」と「言う」が別次元になる交絡は生じない．副詞「大分 / だいぶ」「矢張り / やはり」は語彙素では統一されるものの C の索引語（名詞・動詞・形容詞）の対象外で，その表記差が効くのは文字表層を見る A のみ．<br>・**C の結果（ `full_006` ）**：Intra-work では $L = 500$ で作家別正解率の平均 0.966 と全特徴量で最高だが，Inter-work では 0.342（基準値 0.25）に低下し， $\Delta S_{\text{macro}}$ も 0.0310 から 0.0053 に縮小．作家別 MAP の平均の低下（−0.202）は A・B より大きい．同じ作品内の語彙（登場人物名・題材）の一致は，同じ著者の別作品には持ち越されない．<br>・間引きなしでは漱石以外のチャンクの 58% が漱石と予測され，間引きで 35% に下がる．<br>・C と B の差は語の種類に加えて重み付けとキーの違いを含むため，語の種類の効果は Slide 7-8 の統制比較で示す． |
 | **Slide 11-12: 【担当 D】特異値分解（LSI）による潜在意味の類似度** | ・Train の TF-IDF 行列（004 の出力）の特異値分解 $X = U \Sigma V^\top$ と上位 $K$ 成分による次元削減（第 5 回 p.37）<br>・射影： $Z = X V_K \Sigma_K^{-1}$ （照会ベクトルは $\hat{\vec{q}} = \Sigma_K^{-1} V_K^\top \vec{q}$ ）．第 5 回 p.37 の「検索質問を $V$ によりトピックの重みベクトルに変換し， $U$ を用いて文書と比較する」の式としての実現で，第 5 回 p.37 の $X = U \Sigma V^\top$ から $U_K = X V_K \Sigma_K^{-1}$ を導出し，検索質問に同じ変換を適用．アブレーションは $Z = X V_K$ （ `projection="us"` ）<br>・**［グラフ D］ `presentation/figures/d_k_sweep.png` （ $K \in \{8, 16, 32, 64\}$ の累積寄与率・作家別正解率の平均・作家別 MAP の平均）**．数値は `presentation/slides_d.md` （ `full_006` と一致）<br>　累積寄与率（Intra-work の間引きあり Train）：0.120 / 0.172 / 0.248 / 0.365<br>　Inter-work の作家別正解率の平均：0.258 / 0.286 / 0.296 / 0.319，作家別 MAP の平均：0.322 / 0.311 / 0.292 / 0.284（基準値 0.25，0.260）<br>・ヒートマップ： `presentation/figures/d_heatmap_L500_inter_bal.png` | ・表面上は違う単語を使っていても，一緒に使われやすい単語グループ（共起構造）を $K$ 次元に圧縮して類似度を測るアプローチ．<br>・**結果**：Intra-work では作家別正解率の平均 0.957 だが Inter-work では 0.296 で，C（0.342）より良くならない．どの $K$ でも Inter-work は 0.26～0.32．内容語を圧縮しても題材への依存は残る（事前の仮説どおり）．<br>・LSI は第 3 回の分散表現（ニューラル手法）とは別物であり，「分散表現」とは呼ばない．出力は負値を含む密ベクトルのため類似度分布の横軸は $[-1, 1]$ ． |
 
 #### 主結果表 3（Slide 7-8）：B の付属語 vs 内容語対照（ `full_006` ，重心法）
@@ -183,8 +194,8 @@ Inter-work， `words` ，付属語 − 内容語．`nobal` 以外は 5 シード
 | スライド番号・タイトル | 提示するデータ・図表・数式 | 主張するポイント（何を言うか） |
 | :--- | :--- | :--- |
 | **Slide 13: 全体比較①：どの類似度が「本人と他人」を見分けられるか？** | ・**［図 2］同一著者ペア vs 異著者ペアの類似度分布ヒストグラム（Inter-work，間引きあり）**： `presentation/figures/dist_A_L500_inter_bal_cosine.png` ， `dist_B_L500_inter_bal_cosine.png` ， `dist_C_L500_inter_bal_cosine.png` ， `dist_D_L500_inter_bal_cosine.png` （B の内容語対照の分布図は `full_006` で出力していないため載せない）<br>・**［図 3］4×4 作家間平均類似度ヒートマップ（Inter-work，間引きあり）**： `presentation/figures/heatmap_A_L500_inter_bal_cosine.png` ， `heatmap_B_L500_inter_bal_cosine.png` ， `heatmap_C_L500_inter_bal_cosine.png` ， `heatmap_D_L500_inter_bal_cosine.png` <br>・**［メイン結果表 4］特徴量間の比較（下記の「メイン結果表 4」）** | ・**事前の仮説**：Inter-work において，内容語（C，B の内容語対照）は本人ペアと他人ペアの類似度分布が重なる一方，付属語（B）と文字表層（A）では本人ペアの類似度が他人ペアより高く保たれる．<br>・**結果**：作家別 MAP の平均（Inter-work）は A 0.472 > B 0.420 > C 0.306 > D 0.292（基準値 0.260）．Intra-work → Inter-work の低下は B が最小（−0.082），A −0.112，C −0.202，D −0.241．**内容によらない A・B は未知作品に強く，内容語系の C・D は作品が変わると大きく落ちる**（仮説と整合）．<br>・**仮説と異なった点**：作家別 MAP の平均の最高は B ではなく A（底本の表記の交絡の可能性は Slide 5-6）．B の内容語対照（ `all` ）は 0.393 で付属語（0.420）との差は小さい（品詞 2-gram ブロックが共通のため）．ヒートマップの対角成分が行の最大になるのは A・B で 4 作家中 3 作家で，漱石の照会チャンクは漱石より花袋の Train チャンクに近い（A：花袋 0.626 > 漱石 0.602，B：花袋 0.860 > 漱石 0.854）．<br>・「B が最良」とは言わない． |
-| **Slide 14: 全体比較②：著者を判別するには「何文字」必要で，どう比べるべきか？** | ・**［グラフ E］チャンク文字数 $L$ による推移**： `presentation/figures/chunk_length_curves.png` （ `full_006` ，重心法，実線は間引きあり，破線は間引きなし）．Inter-work（間引きあり）の値は下記の「チャンク長別の推移」<br>・**［グラフ F］判別方式の比較（下記の「推論方式の比較」）** | ・**文字数の仮説と結果**：事前の仮説は「 $L = 100$ （実測 $125.8 \pm 33.1$ 字）では類似度が不安定で， $L = 500$ 以上で安定」．結果は全特徴量で $L = 100$ → 500 で作家別 MAP の平均が上がり，A・B は 500 → 1000 でもさらに上がる（B：0.314 → 0.420 → 0.492）．C・D の作家別正解率の平均は 500 → 1000 でほぼ横ばい（C 0.342 → 0.332，D 0.296 → 0.281）で，文字数を増やしても作品をまたぐ手がかりは増えない．<br>・**比べ方の仮説と結果**：事前の仮説は「似た場面の上位 $k$ 個との平均をとる方が判別しやすい」．間引きありでは差は小さく（B：重心法 0.581，作家別上位 20 平均 0.599），間引きなしでは作家別上位 $k$ 平均が大きく下がる（B：重心法 0.577，作家別上位 5 平均 0.408）．作家別上位 $k$ 平均の優位は Train の作家構成に左右されるため，仮説は支持されない．重心法は間引きの有無によらず安定しており，代表条件とする． |
-| **Slide 15: 全体比較③：推論方式の比較と誤判別分析** | ・**［表 5］推論方式ごとの作家別正解率の平均・作家別 F 値の平均・MRR・同点件数（下記の「推論方式の比較」）**<br>・**［図 4］最良条件の Pooled 混同行列**： `presentation/figures/confusion_best.png` （ `B|L1000|inter|bal|cosine|knn10_per_author` ，全 5 シードの合算）<br>・誤判別チャンクの抜粋： `outputs/full_006/misclassified_best.md` | ・最良条件は Test の結果から選んでいるため楽観的な上限であり，汎化性能の推定ではない（作家別正解率の平均 0.676 ± 0.009，作家別 F 値の平均 0.634 ± 0.011，MRR 0.773 ± 0.009，作家別 MAP の平均 0.492 ± 0.002）．<br>・**混同の傾向**：最も多い誤りは漱石 → 花袋．最良条件で漱石の作家別正解率 0.367（漱石 2035 件中 1145 件が花袋），花袋の適合率 0.382．代表条件（B， $L = 500$ ，重心法）でも漱石 4005 件中 1803 件（45.0%）が花袋．<br>・漱石の 3 作品の多様性（Inter-work では Test 作家だけ Train の作品が 1 つ少ない）と花袋の作品との近さが原因の候補（仮説，015）．<br>・同点（最大スコアの共有）は誤判別として集計（008）．全条件で同点 0 件，ゼロベクトルの照会 0 件．<br>・事前に想定した「会話文ばかりの短いチャンク」の分析は，最良条件が $L = 1000$ のため抜粋で個別に確認する（定量的な分析はしていない）． |
+| **Slide 14: 全体比較②：著者を判別するには「何文字」必要で，どう比べるべきか？** | ・**［グラフ E］チャンク文字数 $L$ による推移**： `presentation/figures/chunk_length_curves.png` （ `full_006` ，重心法，実線は間引きあり，破線は間引きなし）．Inter-work（間引きあり）の値は下記の「チャンク長別の推移」<br>・**［グラフ F］判別方式の比較（下記の「推論方式の比較」）**（値は本資料の表，図はスライド作成時に作成） | ・**文字数の仮説と結果**：事前の仮説は「 $L = 100$ （実測 $125.8 \pm 33.1$ 字）では類似度が不安定で， $L = 500$ 以上で安定」．結果は全特徴量で $L = 100$ → 500 で作家別 MAP の平均が上がり，A・B は 500 → 1000 でもさらに上がる（B：0.314 → 0.420 → 0.492）．C・D の作家別正解率の平均は 500 → 1000 でほぼ横ばい（C 0.342 → 0.332，D 0.296 → 0.281）で，文字数を増やしても作品をまたぐ手がかりは増えない．<br>・**比べ方の仮説と結果**：事前の仮説は「似た場面の上位 $k$ 個との平均をとる方が判別しやすい」．間引きありでは差は小さく（B：重心法 0.581，作家別上位 20 平均 0.599），間引きなしでは作家別上位 $k$ 平均が大きく下がる（B：重心法 0.577，作家別上位 5 平均 0.408）．作家別上位 $k$ 平均の優位は Train の作家構成に左右されるため，仮説は支持されない．重心法は間引きの有無によらず安定しており，代表条件とする． |
+| **Slide 15: 全体比較③：推論方式の比較と誤判別分析** | ・**［表 5］推論方式ごとの作家別正解率の平均・作家別 F 値の平均・MRR・同点件数（下記の「推論方式の比較」）**<br>・**［図 4］最良条件の Pooled 混同行列**： `presentation/figures/confusion_best.png` （ `B|L1000|inter|bal|cosine|knn10_per_author` ，全 5 シードの合算）<br>・誤判別チャンクの抜粋： `outputs/full_006/misclassified_best.md` | ・最良条件は Test の結果から選んでいるため楽観的な上限であり，汎化性能の推定ではない（作家別正解率の平均 0.676 ± 0.009，作家別 F 値の平均 0.634 ± 0.011，MRR 0.773 ± 0.009，作家別 MAP の平均 0.492 ± 0.002）．<br>・**混同の傾向**：最も多い誤りは漱石 → 花袋．最良条件で漱石の作家別正解率 0.367（漱石 2035 件中 1145 件が花袋），花袋の適合率 0.382．代表条件（B， $L = 500$ ，重心法）でも漱石 4005 件中 1803 件（45.0%）が花袋．<br>・漱石の 3 作品の多様性（Inter-work では Test 作家だけ Train の作品が 1 つ少ない）と花袋の作品との近さが原因の候補（仮説，015）．<br>・同点（最大スコアの共有）は誤判別として集計（008）．本採用の A～D の全条件で同点 0 件（アブレーションの一部の $k$-NN では 0.2～4.0 件，「評価データの定義」参照），ゼロベクトルの照会は全条件で 0 件．<br>・事前に想定した「会話文ばかりの短いチャンク」の分析は，最良条件が $L = 1000$ のため抜粋で個別に確認する（定量的な分析はしていない）． |
 | **Slide 16: 結論（Core Message への回答）** | ・問い「講義で捨てる語（第 5 回 p.11）は，未知作品の著者識別で手がかりになるか？」への回答の要約ボックス<br>・根拠：Slide 7-8 の主結果表 3 と語彙選択に対する感度（ `full_006` ， `sensitivity_029_L*` ） | ・**結論**：「未知作品の判別では，内容語の語彙選択を変えても付属語が内容語を上回る（作家別正解率の平均の差は $L = 500, 1000$ で +0.085～+0.227， $L = 100$ で +0.038～+0.103）．同一著者の文章を上位に並べる力（作家別 MAP の平均）では差は小さく，作品固有の語を除いた内容語とはほぼ同等（+0.003～+0.006）」．<br>・Core Message「情報検索では捨てる語が，著者識別では手がかりになる」は，判別（作家別正解率の平均）では支持される．並べる力（MAP）では内容語と同等で，付属語だけが優れた手がかりとまでは言えない．<br>・**チャンク長**：長いほど A・B の作家別 MAP の平均は上がる（ $L = 1000$ が最高）．C・D は文字数を増やしても未知作品ではほとんど改善しない．<br>・**推論方式**：重心法が Train の作家構成によらず安定．作家別上位 $k$ 平均は間引きありでわずかに上回るが，間引きなしで大きく下がる．<br>・**限界**：4 作家・9 作品で検定はしない．A の高さには底本の表記の交絡の可能性が残る．漱石への偏り（作品除外で作家別正解率の平均が ±0.05 程度動く）． |
 | **Slide 17: 参考文献** | ・講義資料（第 2 回 p.8 ～第 6 回 p.44 の各回・頁）の一覧と独自設計の一覧（下記） | ・数式・手法ごとの根拠を明示．講義資料にない設計は独自設計と明示． |
 
@@ -232,7 +243,7 @@ Inter-work， `words` ，付属語 − 内容語．`nobal` 以外は 5 シード
 | D | 0.296 ± 0.008 / 0.293 | 0.282 ± 0.011 / 0.195 | 0.285 ± 0.006 / 0.186 | 0.287 ± 0.012 / 0.197 | 0.281 ± 0.009 / 0.192 |
 
 - 間引きありの作家別 F 値の平均（重心法 / 作家別上位 5）：A 0.486 / 0.471，B 0.544 / 0.556，C 0.332 / 0.324，D 0.283 / 0.259．MRR（重心法 / 作家別上位 5 / 全体上位 5）：A 0.690 / 0.681 / 0.653，B 0.728 / 0.721 / 0.696，C 0.613 / 0.591 / 0.560，D 0.580 / 0.533 / 0.501（基準値 0.521）．
-- 同点件数は全条件で 0． `global` の MRR は上位 $k$ 件外の作家が同点となり悲観的順位で数えるため低く出る（008）．
+- 同点件数は本採用の A～D の全条件で 0（アブレーションの一部の $k$-NN では 0.2～4.0 件，「評価データの定義」参照）． `global` の MRR は上位 $k$ 件外の作家が同点となり悲観的順位で数えるため低く出る（008）．
 - 全 $k$ の値は `outputs/full_006/report.md` の第 4 節．
 
 #### Slide 17 の掲載内容

diff --git a/presentation/qa_defense_matrix.md b/presentation/qa_defense_matrix.md
@@ -54,7 +54,7 @@
 | 田舎教師（花袋） | 0 / 14 | 0 / 25 / 17 |
 
   - 語彙素による統一（ `verify_qa_points` の例文解析，確認）：「大分 / だいぶ」→ `大分` ，「矢張り / やはり / やっぱり」→ `矢張り` （いずれも副詞），「云っ / 言っ」→ `言う` ，「解ら / 分から」→ `分かる` ，「事 / こと」→ `事` ．
-  - 「大分」の地名誤解析（文単位の解析， `verify_qa_points` ）：『坊っちゃん』20 件中 5 件，『こころ』15 件中 9 件が名詞（ `lemma` = オオイタ），残りは副詞．『三四郎』の「だいぶ」38 件はすべて副詞．
+  - 「大分」の地名誤解析（文単位の解析， `verify_qa_points` ）：『坊っちゃん』20 件中 5 件，『こころ』15 件中 9 件が名詞（ `lemma` = オオイタ），残りは副詞．『三四郎』の「だいぶ」は，表の 40 件が表層の文字列としての出現数，形態素（表層形「だいぶ」）としては 38 件で，38 件すべて副詞．
   - 内容語の作品別の表記差（012， `scripts/verify_word_tfidf.py` ）：『坊っちゃん』は「云」系 462（ `言う` 458）/「言」系 15，『三四郎』は「云」系 0 /「言」系 633（ `言う` 623）．C ではいずれも `言う` の 1 次元に集計．
 - **回答**：
   - 班員全員が同じ辞書版で解析しており班内の比較条件はそろっている．フル版 `unidic` との解析結果の一致は未検証．
@@ -139,7 +139,7 @@
 - **回答**：
   - 正規化は中立な前処理ではなくブロックの重みを暗黙に決める操作．二乗ノルム割合の実測で単一ブロックに支配されない既定仕様を選んだ．
   - Min-Max は Intra-work では作家別正解率の平均 0.973 と最高だが，Inter-work では既定より低い（0.514 < 0.543）．作品内の手がかりを強めるが作品をまたいだ手がかりは増やさない．
-  - 記号 3 次元のみでも Inter-work の作家別正解率の平均 0.455，作家別 MAP の平均 0.371（基準値 0.25，0.260）．Intra-work と Inter-work の差が小さく（MAP −0.008），句読点・文長は作品が変わっても残る手がかり．
+  - 記号 3 次元のみでも Inter-work の作家別正解率の平均 0.455，作家別 MAP の平均 0.371（基準値 0.25，0.260）．Intra-work と Inter-work の差が小さく（MAP −0.007），句読点・文長は作品が変わっても残る手がかり．
   - Bi-gram と記号の結合（既定）は Inter-work の MAP で単独のいずれも上回る（0.472 > 0.422，0.371）．
 - **出典**：tf の正規化は第 5 回 p.12，文字 N-gram は第 2 回 p.25 の N-gram を文字に適用，文の定義は第 2 回 p.8．記号特徴と Min-Max は独自設計（010 の実測）．
 
@@ -169,7 +169,7 @@
 
 - **既定仕様**：$\text{tf}(t, d) = \frac{\text{出現回数}}{\text{総形態素数}}$ ， $\text{idf}(t) = \log \frac{N}{\text{df}(t)}$ （自然対数，補正項なし），重み $w_{dt} = \text{tf}(t, d) \cdot \text{idf}(t)$ ．索引語は名詞・動詞・形容詞，キーは語彙素， `max_features=2000` ．
 - **切り替えフラグ**：なし．
-- **数値（004・012， `scripts/verify_word_tfidf.py` ）**：$\text{idf} = 0$ の語は $L = 100$ で 0 語， $L = 500$ で 0 語， $L = 1000$ で 1 語（ `為る` ）．Intra-work（ `seed=42` ）と LOWO 9 fold の全 10 分割で同数．語彙内の最大 $\text{df} / N$ は $L = 100$ で 0.7585， $L = 500$ で 0.9957．
+- **数値（004・012， `scripts/verify_word_tfidf.py` ）**：$\text{idf} = 0$ の語は $L = 100$ で 0 語， $L = 500$ で 0 語， $L = 1000$ で 1 語（ `為る` ）．Intra-work（ `seed=42` ）と LOWO 9 fold の全 10 分割の Train（間引きなし）で数えた値で，全分割で同数．語彙内の最大 $\text{df} / N$ は $L = 100$ で 0.7585， $L = 500$ で 0.9957．
 - **回答**：
   - 全チャンクに出る語の重みが 0 になるのは，第 5 回 p.11 の「どの文書にも均質に現れる語は索引語として不適切」と整合する挙動．実データでは該当語がほぼなく，情報の欠落は無視できる大きさ．
   - df と語彙辞書は Train のみから構築し，Test のみに現れる語は無視（情報漏洩の防止）．
@@ -212,7 +212,7 @@
 | ---: | ---: | :--- | ---: | ---: |
 | 100 | 275 | 0.663～0.964（の 0.964，に 0.954，て 0.952，は 0.942，た 0.900） | 4 | 0.001 |
 | 500 | 275 | 0.984～1.000（に・の・を 1.000，て・と・は 0.999） | 11 | 0.006 |
-| 1000 | 275 | 0.999～1.000（が・て・で・と・に・の・は・を 1.000） | 14 | 0.011 |
+| 1000 | 275 | 0.998～1.000（が・て・で・と・に・の・は・を 1.000） | 14 | 0.011 |
 
   上位 20 語（ $L = 500$ ）：に 1.000，の 1.000，を 1.000，て 0.999，と 0.999，は 0.999，が 0.998，で 0.993，た 0.992，も 0.984，から 0.918，な 0.880，か 0.827，だ 0.794，ない 0.716，ん 0.551，へ 0.541，れ 0.497，です 0.450，ば 0.430．
 
@@ -255,7 +255,7 @@
   - B の Pooled 混同行列（ $L = 500$ ，重心法，間引きあり，5 シードの合算）：漱石の Test チャンク 4005 件中 1633 件が漱石，1803 件（45.0%）が花袋と判定．花袋 1855 件中 461 件が漱石．
   - 作家間平均類似度行列（ $L = 500$ ，Inter-work，間引きあり，全シード合算）：漱石の照会チャンクは A・B とも漱石より花袋の Train チャンクに近い（A：花袋 0.626 > 漱石 0.602，B：花袋 0.860 > 漱石 0.854）．
   - 最良モデル（ $L = 1000$ ）：漱石の作家別正解率 0.367（漱石 2035 件中 1145 件が花袋），花袋の適合率 0.382．
-  - 同点件数・ノルム 0 の照会数は全条件で 0（ `summary.csv` の `n_ties` ・ `n_zero_query` ）．
+  - 同点件数は本採用の A～D の全条件で 0．アブレーションの一部の $k$-NN（ `A[blocks=symbol]` の $L = 500$ ，B の `words` の付属語・内容語の $L = 100$ ）では条件ごとに 0.2～4.0 件（5 シードの平均，間引きなしの Inter-work は 1 回の値， `summary.csv` の `n_ties` ）．ノルム 0 の照会数は全条件で 0（ `summary.csv` の `n_zero_query` ）．
   - $\Delta S_{\text{macro}}$ （Inter-work，間引きあり）：A 0.0586 ± 0.0009，B 0.0229 ± 0.0008，C 0.0053 ± 0.0001，D 0.0228 ± 0.0019（値の分布が特徴量ごとに異なるため特徴量間では比べない）．
 - **回答**：
   - 最も多い誤りは漱石→花袋．作品除外（追加質問「漱石への偏り」）とあわせ，漱石の 3 作品の多様性と花袋の作品の近さが原因の候補（仮説）．
@@ -307,7 +307,7 @@
 | 田舎教師 | の 5312，に 4681，て 4383，た 4270，は 3304，を 2889，が 2635，と 2277，も 1582，で 1486，から 819，な 608 |
 
 - **回答**：
-  - 第 5 回 p.11 で助詞・助動詞が不要語とされるのは，情報検索の目的が文書の内容を表すことにあり，どの文書にも均質に現れる語は内容を区別しないため．第 5 回 p.14 の『坊っちゃん』の頻度上位（て・だ・た・は・を…）は本コーパスでも再現（上表．『坊っちゃん』の 1 位は「て」）．
+  - 第 5 回 p.11 で助詞・助動詞が不要語とされるのは，情報検索の目的が文書の内容を表すことにあり，どの文書にも均質に現れる語は内容を区別しないため．第 5 回 p.14 の『坊っちゃん』の頻度上位（て・だ・た・は・を…）と本コーパスの『坊っちゃん』の付属語の上位は，顔ぶれは一致，順位は異なる（上表．1 位の「て」は同じ，講義で 2 位の「だ」は本コーパスの付属語では 9 位）．
   - 著者識別では逆に，内容に依存せず書き手の癖が残る語が望ましい．上位語の顔ぶれは共通でも順位と頻度は作品で異なる（例：『こころ』は「です」「まし」が上位で，敬体の語りを反映）．
   - 結果（Q13）：未知作品の判別（作家別正解率の平均）では付属語が内容語を上回り，同じ作品内では内容語が上．講義で捨てる語が未知作品の著者識別の手がかりになる，という Core Message は作家別正解率の平均では支持される．作家別 MAP の平均では差は小さい．
 - **出典**：不要語は第 5 回 p.11，頻度表と tf・idf の順位は第 5 回 p.14-16，品詞分類は第 2 回 p.11．
@@ -379,7 +379,7 @@
 - **数値**：
   - 作品除外（漱石の 1 作品を除いた 8 作品版 3 通り − 9 作品版， `exclusion_summary_ABCD` ，間引きあり）：A～D・全 $L$ ・重心法と `per_author` $k = 5$ で，作家別正解率の平均の変化は −0.075～+0.055，作家別 MAP の平均の変化は −0.017～+0.025．B の重心法（ $L = 500$ ）は 坊っちゃん除外 −0.054，こころ除外 +0.053，三四郎除外 −0.033．
   - 漱石以外のチャンク中の漱石予測割合（ $L = 500$ ，重心法，間引きあり，9 作品版）：A 0.195 ± 0.013，B 0.146 ± 0.009，C 0.351 ± 0.053，D 0.345 ± 0.044．
-  - 割り増し係数の比（漱石 / Test 作家，fold 単位， $L = 500$ ，間引きあり， `centroid_norm_ABCD` ）：A 0.97～1.11，B 0.99～1.02 でほぼ 1．C 0.96～1.17，D 0.93～1.43（D の `lowo_terada_0` が最大）．
+  - 割り増し係数の比（漱石 / Test 作家，fold 単位， $L = 500$ ，間引きあり， `centroid_norm_ABCD` ）：A 0.97～1.11，B 0.99～1.02 でほぼ 1．C 0.96～1.17，D 0.92～1.43（D の `lowo_terada_0` が最大）．
 - **回答**：
   - 作品除外による変動は作家別正解率の平均で ±0.05 程度（B）．Train に残る漱石の作品によって結果は動くが，付属語と内容語・特徴量間の大小関係を覆す大きさではない（Q5 の差は 0.1 以上）．
   - 重心とのコサインは作家内の平均類似度が小さい作家ほど $1 / \|\hat{c}_a\|$ で割り増される．A・B では作家間でほぼ同じで影響は小さい．C・D では最大 1.43 倍の差が残り，C・D の低さの一部はこの割り増しの偏りによる可能性（仮説）．

diff --git a/plans/035-presentation-audit-fixes.md b/plans/035-presentation-audit-fixes.md
@@ -1,0 +1,45 @@
+# 035: 034 の監査で見つかった発表資料の不足・不一致の修正
+
+## Expected Deliverables & Design Policy
+
+- 034 の監査（`outputs/audit_034/checks.csv` ・ `checks_text.csv` ，`plans/wbs.md` の 034 のメモ）で見つかった項目を修正する．値は出典（`outputs/full_006/` ，`verify_qa_points.py` 等の出力）から丸め前の値を取り，資料の桁で一度だけ丸める（二重丸めをしない）．
+- 不一致の修正：
+  - 「全条件で同点 0 件」（storyline の評価データの定義・Slide 15・推論方式の比較の注，qa Q12）：「本採用の A～D の全条件で 0 件．アブレーションの一部の $k$-NN（`A[blocks=symbol]` の $L = 500$ ，B の `words` の付属語・内容語の $L = 100$ ）で 0.2～4.0 件（シード平均）」の旨に修正．値は `full_006/summary.csv` から．
+  - A の `blocks=symbol` の Intra-work → Inter-work の作家別 MAP の平均の低下（storyline Slide 5-6，qa Q6）：−0.008 → 丸め前の差から再計算（−0.007）．
+  - D の割り増し係数の比の範囲（qa 追加質問「漱石への偏り」）：丸め前の値から再計算（0.92～1.43）．
+  - `slides_d.md` の図のバイト一致の記述：031 の再生成後の版（`outputs/full_006_figs_ja/figures/` ）を出典とする記述に修正．
+  - qa Q10 の $L = 1000$ の上位 10 語の出現率の範囲：0.998～1.000 に修正．
+  - storyline Slide 5-6 の字種構成比 2 値（『柿の種』の漢字，『田舎教師』のカタカナ）：丸め前の値から 3 桁で丸め直し．同じ表の他の値も同じ方法で確認．
+- 値なしの修正：
+  - Slide 2 の表 1 に，コーパス全 30 作品の作家別作品数（`verify_qa_points.py` の Q1 の出力から転記）を追加．
+  - Slide 1 の班員一覧・役割分担表，Slide 1 の概念図，Slide 3 の図 1 は資料から埋められないため，storyline の該当箇所に「スライド作成時に作成（研究者・スライド作成担当）」と明記．グラフ A・C・F も「値は本資料の表，図はスライド作成時に作成」と明記．
+- 表現の修正：
+  - Slide 1a・qa Q14 の講義 p.14 の「再現」：「上位の語の顔ぶれは一致，順位は異なる（例：講義で 2 位の「だ」が本コーパスの付属語では 9 位）」の旨に修正．
+  - Slide 9-10・qa Q8 の idf = 0 の語数：間引きなしの Train で数えた値である旨を併記．
+  - qa Q2 の『三四郎』の「だいぶ」：表層の出現数（40）と形態素の数（38）の違いを明記．
+  - `chunk_length_curves.png` ：作家別 MAP の平均のパネルに，間引きあり・なしそれぞれの基準値の線（`summary.csv` の `map_random` ）を追加して再生成（`scripts/plot_results.py` の該当パネル，031 と同じく `outputs/full_006_figs_ja/` に再生成し `presentation/figures/` を置換）．描画データの他の要素は変えない．図の凡例が線に重なる場合は凡例の位置を調整（`core_chunk_length.png` も同様に調整してよい．値は変えない）．
+  - `presentation/README.md` の図の注意を，修正後の状態に合わせて更新．
+- `presentation/` の資料の他の記述は変更しない．
+
+## Target File Paths
+
+- `presentation/presentation_storyline.md`
+- `presentation/qa_defense_matrix.md`
+- `presentation/slides_d.md`
+- `presentation/README.md`
+- `scripts/plot_results.py` （基準値の線と凡例の位置のみ）
+- `presentation/figures/chunk_length_curves.png` ， `presentation/figures/core_chunk_length.png` （再生成で置換）
+
+## Mandatory Constraints
+
+- Comply with `.claude/rules/research-coding.md` (loaded automatically).
+- `outputs/full_006/` ・ `src/` ・ `configs/` を変更しない．
+- 新しい主張を加えない．数値は出典から転記．
+- ドキュメントは体言止め，全角の「，」「．」，半角英数字・数式の前後に半角スペースの規約に従う．
+- コミットしない．
+
+## Verification Criteria
+
+- [ ] 034 の監査スクリプト（`outputs/audit_034/audit_check.py` ・ `audit_check_text.py` ）を修正後の資料で再実行し，不一致 0・値なしは「スライド作成時に作成」と明記した 3 項目（とグラフ A・C・F）のみであることを報告（スクリプトの期待値の更新が必要なら，その差分を報告）．
+- [ ] 再生成した 2 図の描画データが，追加した基準値の線と凡例の位置以外で旧図と一致（031 と同じ方法で数値比較）．基準値の線の値が `summary.csv` の `map_random` と一致．
+- [ ] 修正した各箇所の修正前・修正後の対応表を報告．

diff --git a/plans/wbs.md b/plans/wbs.md
@@ -12,7 +12,7 @@
 
 ## Tasks
 
-Orchestrator の委譲対象：000・001・004・006～010・012～033．002・003・005 は班員担当．
+Orchestrator の委譲対象：000・001・004・006～010・012～035．002・003・005 は班員担当．
 
 | ID | Ticket | Phase | Depends On | Status |
 |---|---|---|---|---|
@@ -48,6 +48,8 @@ Orchestrator の委譲対象：000・001・004・006～010・012～033．002・0
 | 031 | [presentation-figure-labels](./031-presentation-figure-labels.md) | 4 | 007 | Done |
 | 032 | [slide-maker-guide](./032-slide-maker-guide.md) | 4 | 031 | Done |
 | 033 | [slide2-work-table](./033-slide2-work-table.md) | 4 | 007 | Done |
+| 034 | [presentation-results-audit](./034-presentation-results-audit.md) | 4 | 033 | Done |
+| 035 | [presentation-audit-fixes](./035-presentation-audit-fixes.md) | 4 | 034 | Done |
 | 007 | [qa-verification](./007-qa-verification.md) | 4 | 001, 006, 009, 029 | Done |
 
 ## Review Notes
@@ -197,6 +199,12 @@ Orchestrator の委譲対象：000・001・004・006～010・012～033．002・0
   - 残課題（任意）：`src/evaluator.py` の英語ラベル付き描画関数 3 つが未使用のまま残り，`plot_results.py` に日本語版が重複．`core_chunk_length.png` の作家別正解率の平均のパネルで凡例が内容語の線に一部重なる．
 - **033（2026-11-24 レビュー済み）**：スライド作成担当の問い合わせ（Slide 2 の表 1 の作品別の値が資料にない）に対応．`verify_qa_points.py` の Q1 に 9 作品の文字数・文数・チャンク数（ $L = 100 / 500 / 1000$ ）・破棄文字数の表を追加し，合計（886709 字，26738 文，7047 / 1679 / 857 チャンク）と `full_006` の Inter-work の fold ごとの Test チャンク数との照合をスクリプト内で実施（不一致で停止することも確認）．既存の出力は不変．storyline の Slide 2 に表 1，qa の Q1 に参照を追加．
   - 007 の時点で storyline が参照していた Q1 の作品別の値（文数・チャンク数）が実際には出力されていなかった（Orchestrator のレビュー漏れ）．
+- **034（2026-11-24 レビュー済み）**：`presentation/` の 4 資料（storyline，qa，slides_d，README）の結果の存在確認．判定表 88 行（OK 75，値なし 4，不一致 9（問題としては 6 件），出典なし 0，再現不可 0），スクリプトによる個別照合 808 件．照合の詳細は `outputs/audit_034/checks.csv` ・ `checks_text.csv` （`report.md` はハーネスの制限で未作成，内容は本メモと後続の修正チケットに記録）．
+  - 不一致：「全条件で同点 0 件」（本採用は 0 だがアブレーションの $k$-NN で 0.2～4.0 件），A の symbol の低下 −0.008 → −0.007，D の割り増し係数の比 0.93 → 0.92，slides_d の図のバイト一致の記述が 031 以前のまま，Q10 の出現率 0.999 → 0.998，字種構成比 2 値（二重丸め）．
+  - 値なし：Slide 1 の班員一覧・概念図，Slide 2 の全 30 作品の作家別作品数，Slide 3 の図 1．グラフ A・C・F は値はあるが図ファイルなし．
+  - 懸念：講義 p.14 の「再現」は上位語の顔ぶれの一致のみ（順位は一致しない），idf = 0 の語数は間引きなしの Train で数えた値，`chunk_length_curves.png` に間引きの有無で異なる基準値の線がない，Q2 の件数の数え方が 2 通り．
+- **035（2026-11-24 レビュー済み）**：034 の不一致 6 件・値なし 1 件（30 作品の作家別作品数）・表現 4 件を修正．値なしの残り（Slide 1 の班員一覧・概念図，Slide 3 の図 1，グラフ A・C・F の作図）は storyline に「スライド作成時に作成」と明記．`chunk_length_curves.png` に基準値の線（間引きあり・なし）を追加し，2 図の凡例を図の下に移動（他の描画データは 35 図で差分 0，基準値の線は `map_macro_random` と誤差 0）．034 の監査スクリプトの再実行で 667 / 667，148 / 148 が OK．
+  - 監査で見落としていた字種構成比の 3 値目（『柿の種』のひらがな 0.614 → 0.613）も修正．監査スクリプト自体が二重丸めしていた．
 - **発表資料側の未修正事項（007 で対応）**：Q3（チャンク長のばらつき），Q4（端数破棄率），Q11（ $k$ 増大時の漸近先）の記述修正
 
 ## Pending Decisions（研究者の判断待ち）

diff --git a/plans/034-presentation-results-audit.md b/plans/034-presentation-results-audit.md
@@ -1,0 +1,32 @@
+# 034: 発表資料が予定する結果の存在確認（監査）
+
+## Expected Deliverables & Design Policy
+
+- 背景：033 で，storyline の Slide 2 の表 1 が出典（`verify_qa_points` の Q1）を挙げながら値が出力されていなかったことが判明（2026-11-24）．同種の抜けが他にないかを網羅的に確認する．
+- 対象：`presentation/presentation_storyline.md` の全スライド（Slide 1～17）と付随する節，`presentation/qa_defense_matrix.md` の全質問，`presentation/slides_d.md` ，`presentation/README.md` ．
+- 各資料が「載せる」「示す」「出典」として挙げる結果をすべて列挙し，項目ごとに次を判定する．
+  - **種類**：表・図・数値・具体例・再現コマンド・出典の run / スクリプト．
+  - **値の有無**：値（または図のファイル）が資料の中に実際に書かれているか．「（予定）」「後で」「要計測」等の未記入，出典だけで値がない箇所を不足とする．
+  - **出典の実在**：挙げられたファイル（`presentation/figures/` の図，`scripts/` のスクリプト，`outputs/` の run・ファイル）が存在するか．スクリプトの場合，その出力に該当する値が実際に出るか（実行して確認．各 10 分以内）．
+  - **値の一致**：資料の値と出典の値の一致（出典の CSV・スクリプト出力・図と照合．007・030・033 で照合済みの項目は再照合の結果のみ記載でよい）．
+  - **再現性**：再現コマンドが書かれている場合，そのコマンドが現在のコードで動くか．
+- 結果は `outputs/audit_034/report.md` に表で出す（スライド / 質問ごとに 1 行以上，判定：OK / 値なし / 出典なし / 不一致 / 再現不可）．不足の項目には「何が足りないか」「埋めるのに必要な作業（既存の出力からの転記で済むか，新たな計算が必要か）」を書く．
+- 修正は行わない（監査のみ）．
+
+## Target File Paths
+
+- なし（リポジトリのファイルは変更しない．出力は `outputs/audit_034/` と scratchpad）
+
+## Mandatory Constraints
+
+- Comply with `.claude/rules/research-coding.md` (loaded automatically).
+- `presentation/` ・ `scripts/` ・ `src/` ・ `configs/` ・ `plans/` を変更しない．
+- `data/raw/` のコーパスを直接読まない．
+- 照合はスクリプトで行い，目視のみの判定は「目視」と明記．
+- コミットしない．
+
+## Verification Criteria
+
+- [ ] `outputs/audit_034/report.md` に，storyline の Slide 1～17（1a を含む）と付随する節，qa の全質問，slides_d，README のすべてが少なくとも 1 行ずつ含まれる（件数を報告）．
+- [ ] 判定ごとの件数と，OK 以外の全項目の一覧（資料の箇所，種類，不足の内容，必要な作業）を報告．
+- [ ] 実行したスクリプト・照合の方法と所要時間を報告．

diff --git a/presentation/slides_d.md b/presentation/slides_d.md
@@ -6,7 +6,7 @@
   - `full_006`：006 の Full Experiment（コミット `9668297` ， `dirty: false` ）．D の本採用（ $K = 32$ ， `projection=u` ）とアブレーション（ $L = 500$ ， $K \in \{8, 16, 64\}$ と `projection=us` ），C を含む．以下の表の値はすべて `full_006` の `report.md` ・ `summary.csv` と一致（007 で照合）
   - 累積寄与率：`uv run python scripts/verify_qa_points.py` の Q9（ `scripts/plot_d_k_sweep.py` と同じ Train で fit）
 - 特記なき数値は **間引きあり・5 シード平均（± 標本標準偏差）・重心法・ $L = 500$**．
-- 図のコピー： `presentation/figures/d_k_sweep.png` （ `full_006` の `summary.csv` から `scripts/plot_d_k_sweep.py` で再生成した図とバイト一致）， `presentation/figures/d_heatmap_L500_inter_bal.png` （ `full_006` の `heatmap_D_L500_inter_bal_cosine.png` とバイト一致）
+- 図のコピー： `presentation/figures/d_k_sweep.png` （ `full_006` の `summary.csv` から `scripts/plot_d_k_sweep.py` で再生成した図とバイト一致）， `presentation/figures/d_heatmap_L500_inter_bal.png` （ `full_006` の出力から 031 で日本語表記に再生成した `outputs/full_006_figs_ja/figures/heatmap_D_L500_inter_bal_cosine.png` とバイト一致）
 - 指標の方針： $K$ の比較には作家別正解率の平均と作家別 MAP の平均のみを用い， $\Delta S$ は使わない（ $K$ を変えるとベクトルの次元数が変わり，コサイン類似度の値の分布そのものが変わるため．`research-context.md` の $\Delta S$ の使用範囲）．
 
 ---

diff --git a/presentation/README.md b/presentation/README.md
@@ -7,7 +7,7 @@
 - `presentation_storyline.md` ：スライドごとの載せるデータ・主張・数値・出典の設計図．スライドの構成はこのファイルに従う．
 - `qa_defense_matrix.md` ：想定質問と回答，数値（run 名付き）と出典の一覧．
 - `slides_d.md` ：担当 D（LSI）のスライド案．
-- `figures/` ：発表に使う図（日本語表記， `full_006` から再生成，031）．
+- `figures/` ：発表に使う図（日本語表記， `full_006` から再生成，031．基準値の線と凡例の位置は 035）．
 
 ## 使わない資料
 
@@ -24,7 +24,8 @@
 ## 図
 
 - `figures/` の図を使う．
-- `core_chunk_length.png` の作家別正解率の平均のパネルは凡例が線に一部重なるため，拡大表示する場合は注意．
+- `chunk_length_curves.png` ・ `core_chunk_length.png` の凡例は図の下にまとめて表示（035）．
+- `chunk_length_curves.png` の作家別 MAP の平均のパネルの黒の細線（印なし）は基準値（実線：間引きあり，破線：間引きなし）．基準値は間引きの有無で異なる（ $L = 500$ の Inter-work で 0.260 / 0.157）ため，間引きあり・なしの比較は基準値との差で見る（035）．
 
 ## 用語と出典
 
